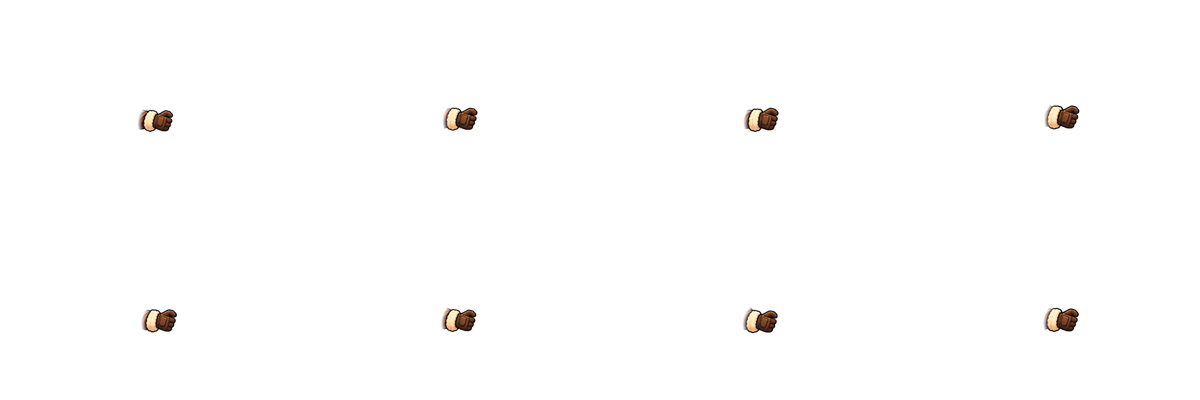
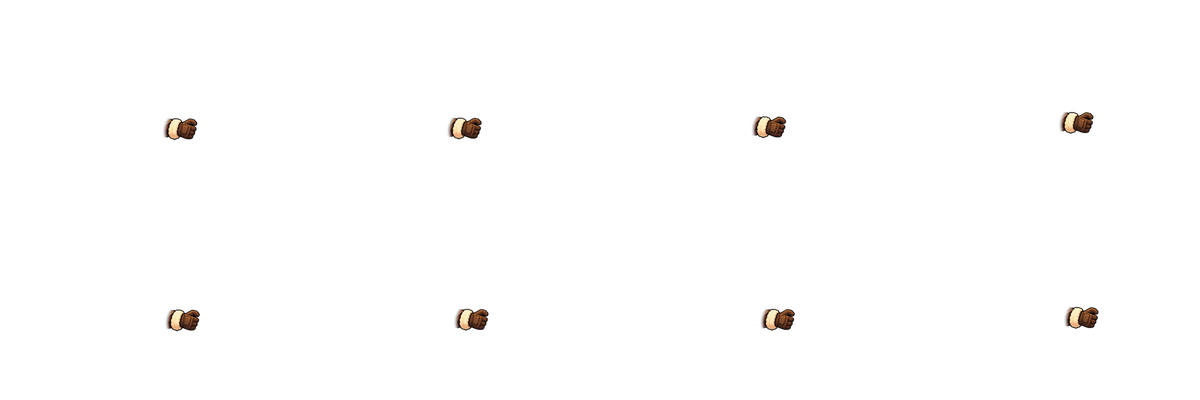
Новые герои: руки держат ствол и идут за корпусом, оружие не прыгает, стойка Рико без рывков (Beer Party Studio)

diff --git a/tools/hero_tactical.py b/tools/hero_tactical.py
@@ -48,31 +48,77 @@ def tip(cell, slab):
     return float(xs[sel].mean()), float(ys[sel].mean())
 
 
+def cells(sheet, n):
+    return [sheet.crop(((i % 4) * CW, (i // 4) * CH, (i % 4 + 1) * CW, (i // 4 + 1) * CH)) for i in range(n)]
+
+
+def sheet_of(frames):
+    rows = (len(frames) + 3) // 4
+    out = Image.new("RGBA", (4 * CW, rows * CH), (0, 0, 0, 0))
+    for i, f in enumerate(frames):
+        out.paste(f, ((i % 4) * CW, (i // 4) * CH))
+    return out
+
+
+def anchor(cell):
+    """Корпус кадра: x — середина головы (верхние 25 px силуэта), y — макушка. По нему руки идут за телом."""
+    a = np.array(cell.getchannel("A")) > 128
+    ys, xs = np.nonzero(a)
+    top = ys.min()
+    return float(xs[ys < top + 25].mean()), float(top)
+
+
+def shifted(cell, dx, dy):
+    out = Image.new("RGBA", cell.size, (0, 0, 0, 0))
+    out.paste(cell, (round(dx), round(dy)), cell)
+    return out
+
+
+def smooth_order(frames):
+    """Стойка с рывком на стыке цикла (корпус прыгает больше 8 px) — играем первую половину туда-обратно."""
+    xs = [anchor(f)[0] for f in frames]
+    jump = max(abs(xs[i] - xs[(i + 1) % len(xs)]) for i in range(len(xs)))
+    if jump <= 8.0:
+        return list(range(len(frames)))
+    half = len(frames) // 2
+    return list(range(half)) + list(range(half - 1, -1, -1))
+
+
 def main():
+    """Клипы с оружием (idle/run/shoot) собираются из слоёв: тело без рук + руки в позе удержания из первого кадра
+    стрельбы, сдвинутые за корпусом. В нарисованных кадрах руки размахивают (бег), и ствол прыгал от кадра к кадру."""
     os.makedirs(DST, exist_ok=True)
     for hero in HEROES:
         base = f"{SRC}/{hero}/{hero}_"
         for clip in COUNTS:
-            shrink(rgba(base + clip + ".png")).save(f"{DST}/{hero}_{clip}.png", optimize=True)
+            if clip not in HANDS:
+                shrink(rgba(base + clip + ".png")).save(f"{DST}/{hero}_{clip}.png", optimize=True)
+        rear = cells(rgba(base + "rearhand_shoot.png"), 1)[0]
+        front = cells(rgba(base + "fronthand_shoot.png"), 1)[0]
+        ref = anchor(cells(rgba(base + "body_nohands_shoot.png"), 1)[0])
+        g0 = tip(rear, 22)
+        s0 = tip(front, 18)
+        yy, xx = np.mgrid[0:CH, 0:CW]
+        fade = np.clip((FIST_R + FIST_SOFT - np.sqrt((xx - g0[0]) ** 2 + (yy - g0[1]) ** 2)) / FIST_SOFT, 0.0, 1.0)
+        fist_arr = np.array(rear).astype(np.float32)
+        fist_arr[..., 3] *= fade
+        fist = Image.fromarray(fist_arr.clip(0, 255).astype(np.uint8), "RGBA")
         grip = {}
         for clip in HANDS:
-            rear = rgba(base + "rearhand_" + clip + ".png")
-            front = rgba(base + "fronthand_" + clip + ".png")
-            hands = Image.new("RGBA", rear.size, (0, 0, 0, 0))
-            points = []
-            for i in range(COUNTS[clip]):
-                box = ((i % 4) * CW, (i // 4) * CH, (i % 4 + 1) * CW, (i // 4 + 1) * CH)
-                g = tip(rear.crop(box), 22) or (300.0, 200.0)
-                s = tip(front.crop(box), 18) or (g[0] + 70.0, g[1])
-                gx, gy = g
-                cell = np.array(rear.crop(box)).astype(np.float32)
-                yy, xx = np.mgrid[0:CH, 0:CW]
-                d = np.sqrt((xx - gx) ** 2 + (yy - gy) ** 2)
-                fade = np.clip((FIST_R + FIST_SOFT - d) / FIST_SOFT, 0.0, 1.0)
-                cell[..., 3] *= fade
-                hands.paste(Image.fromarray(cell.clip(0, 255).astype(np.uint8), "RGBA"), box[:2])
-                points.append([round(gx * K, 1), round(gy * K, 1), round(s[0] * K, 1), round(s[1] * K, 1)])
-            shrink(hands).save(f"{DST}/{hero}_hand_{clip}.png", optimize=True)
+            bodies = cells(rgba(base + "body_nohands_" + clip + ".png"), COUNTS[clip])
+            order = smooth_order(bodies) if clip == "idle" else list(range(len(bodies)))
+            frames, hands, points = [], [], []
+            for i in order:
+                ax, ay = anchor(bodies[i])
+                dx, dy = ax - ref[0], ay - ref[1]
+                cell = shifted(rear, dx, dy)
+                cell.alpha_composite(bodies[i])
+                cell.alpha_composite(shifted(front, dx, dy))
+                frames.append(cell)
+                hands.append(shifted(fist, dx, dy))
+                points.append([round((g0[0] + dx) * K, 1), round((g0[1] + dy) * K, 1), round((s0[0] + dx) * K, 1), round((s0[1] + dy) * K, 1)])
+            shrink(sheet_of(frames)).save(f"{DST}/{hero}_{clip}.png", optimize=True)
+            shrink(sheet_of(hands)).save(f"{DST}/{hero}_hand_{clip}.png", optimize=True)
             grip[clip] = points
         json.dump(grip, open(f"source/data/grip_{hero}.json", "w"))
         print(hero, {c: len(v) for c, v in grip.items()})

diff --git a/HANDOFF.md b/HANDOFF.md
@@ -91,7 +91,7 @@
 57. Секторы v2: у каждой темы своя планировка (`sectors[].layout`: [id, u, v] в долях полуосей сектора, случайное зеркало), форма (`shape`: blob — парк/полянка/газон/гольф с мягким краем; rect — кафе/стоянка/бассейн/энергобудка/док с бордюром) и детали (`deco`: flowers, tufts, stripes, bays, hazard, pool, garland) — рисуются слоем поверх покрытия (`SectorPatch._paint`). Бассейн — вода шейдером протоки, клетки закрыты (`_block_rect`). Парковка Банка — светлый асфальт `sector_asphalt_light.png`.
 58. Жители секторов: `sectors[].life` в lots.json — список NPC (assets/npc), `LevelSpawner._spawn_life()` ставит AmbientLife-актёров по сектору (на качестве 0 — нет), бочки с огнём дают EnvLights (`_life_lights`, чистятся в clear()). Задник районов без повторов подряд (`_backdrop_row`). Шейдер протоки — бегущие блики. Свалка чуть светлее (LAYOUT_AMBIENT junkyard 0.66/0.64/0.74).
 59. Видеопамять (вылеты iPhone): «невыясненные ~100 МБ» — это множитель: монитор Godot считает текстуру ×1.33 (как с мипмапами), остальное — обычные текстуры. Ужато: листы енота 480×320 → 300×200 на кадр (`CLIP_*` в raccoon_visual, raccoon_grip.json ×0.625, tools/raccoon_pack.py), NPC-листы переупакованы плотно (npc_frames.json), пули оружия грузятся при первом выстреле (`WeaponData.bullet_vfx_key` → `WeaponVfx.resolve_bullet`). Замер (vram_probe, глава 1, 852×393): 160 → 108 МБ. Ошибка `arena_district._light` (удалённый предмет в отложенном вызове) исправлена.
-60. Тактические герои Астры (бриф v21): Рико, Фитиль, Фрост — `tools/hero_tactical.py` берёт astra/inbox/story/heroes_tactical/<id>/ → assets/heroes/tactical/<id>_<clip>.png (ячейка 300×200), кулак задней руки → <id>_hand_<clip>.png, точки хвата по кадрам (кисть = конец слоя руки, дальний от плеча) → data/grip_<id>.json; в characters.json `sprite.clips` + `sprite.clips_grip`; кэш клипов в raccoon_visual по префиксу. Портреты (карточка, hud 0..3, rico.png для диалогов) — тем же скриптом (`ui()`). Старый енот (assets/heroes/raccoon_*) по брифу — сын Рико «Малой», отдельный герой позже (арт UI в heroes_tactical/maloy). Остальные герои (night, neon_hopper, fluffy_chemist, pigeon_mafioso) — ждём арт.
+60. Тактические герои Астры (бриф v21): Рико, Фитиль, Фрост — `tools/hero_tactical.py` берёт astra/inbox/story/heroes_tactical/<id>/ → assets/heroes/tactical/<id>_<clip>.png (ячейка 300×200), кулак задней руки → <id>_hand_<clip>.png, точки хвата по кадрам (кисть = конец слоя руки, дальний от плеча) → data/grip_<id>.json; в characters.json `sprite.clips` + `sprite.clips_grip`; кэш клипов в raccoon_visual по префиксу. Клипы с оружием (idle/run/shoot) собираются из слоёв: body_nohands + руки из 1-го кадра shoot (поза удержания), сдвинутые по корпусу (`anchor`: голова/макушка); точки хвата — от этих рук (иначе в беге руки размахивали и ствол прыгал до 75 px). Стойка с рывком на стыке цикла играется туда-обратно (`smooth_order`). Портреты (карточка, hud 0..3, rico.png для диалогов) — тем же скриптом (`ui()`). Старый енот (assets/heroes/raccoon_*) по брифу — сын Рико «Малой», отдельный герой позже (арт UI в heroes_tactical/maloy). Остальные герои (night, neon_hopper, fluffy_chemist, pigeon_mafioso) — ждём арт.
 61. Safari iOS 26 (альбомная): innerHeight включает панель браузера — низ игры и загрузки уходил за край. `window.__trashViewport()` (source/web/render_scale.js) берёт высоту/сдвиг из visualViewport; make_site патчит размер холста Godot в index.js и подгоняет #boot. render_scale.js для сайта теперь копируется из source/web.
 62. Правки тестеров 09.10: «Хлам» (category endless, +2%) в `RunStats.roll_choices` — только добивка, если обычных карт меньше count; `VirtualJoystick._mouse_only` (веб без сенсора) — стик не ловит эмулированные касания и не рисуется; CampPopup — торговцы в scroll_list и кнопки в ряд в горизонтальном виде.
 
